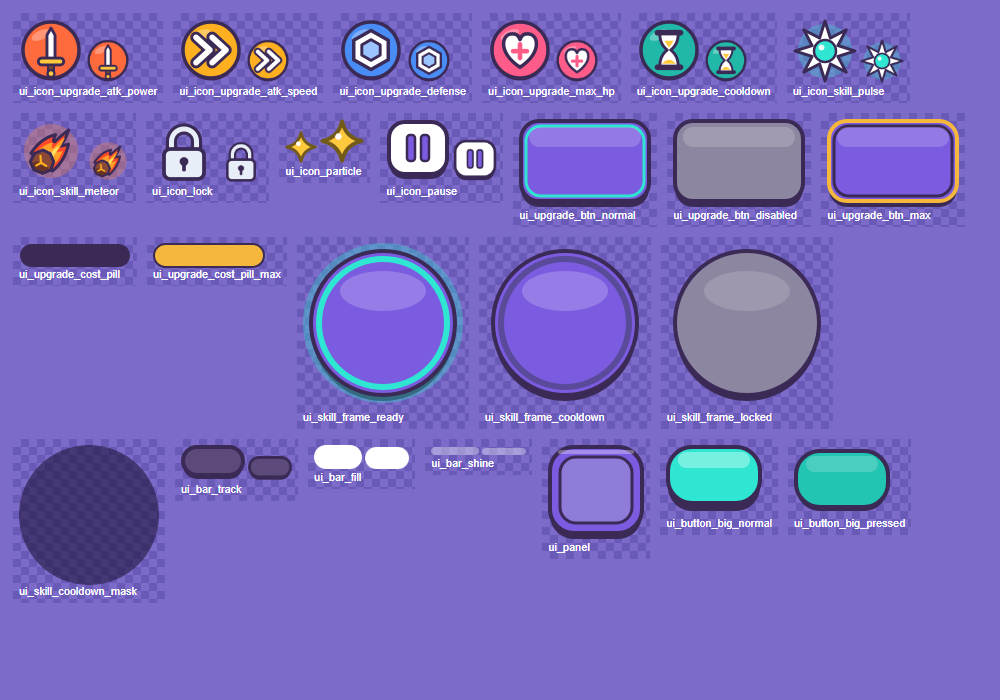
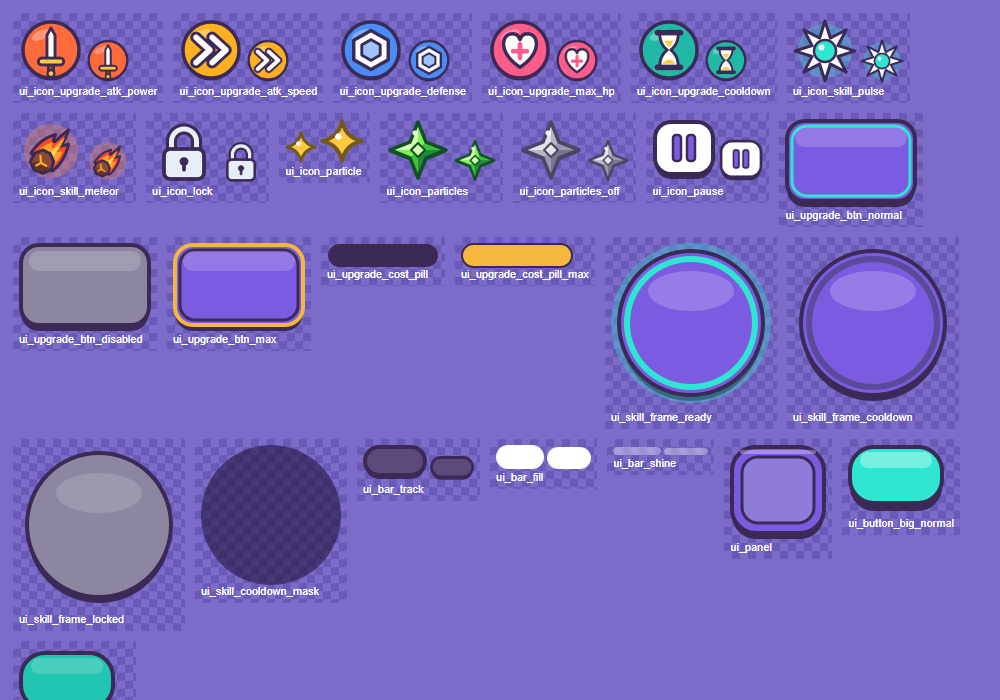
T-155 (voltar ao título), T-160 e T-161 (Partículas verdes na UI e nos efeitos)

Changed region(s): [[0.0, 0.15, 0.961, 0.6], [0.0, 0.63, 0.961, 0.9], [0.0, 0.93, 0.124, 1.0]]

diff --git a/assets/ui/_src/contact_sheet.html b/assets/ui/_src/contact_sheet.html
@@ -1,1 +1,1 @@
-<html><body style="margin:8px;background:#7C6BC9;font:11px sans-serif;color:#fff"><style>.c{display:inline-block;vertical-align:top;margin:5px;padding:6px;background:repeating-conic-gradient(#6a5ab8 0 25%,#7C6BC9 0 50%) 0 0/16px 16px}</style><div class="c"><img src="../ui_icon_upgrade_atk_power.png" style="width:64px"> <img src="../ui_icon_upgrade_atk_power.png" style="width:44px"> <br><span>ui_icon_upgrade_atk_power</span></div><div class="c"><img src="../ui_icon_upgrade_atk_speed.png" style="width:64px"> <img src="../ui_icon_upgrade_atk_speed.png" style="width:44px"> <br><span>ui_icon_upgrade_atk_speed</span></div><div class="c"><img src="../ui_icon_upgrade_defense.png" style="width:64px"> <img src="../ui_icon_upgrade_defense.png" style="width:44px"> <br><span>ui_icon_upgrade_defense</span></div><div class="c"><img src="../ui_icon_upgrade_max_hp.png" style="width:64px"> <img src="../ui_icon_upgrade_max_hp.png" style="width:44px"> <br><span>ui_icon_upgrade_max_hp</span></div><div class="c"><img src="../ui_icon_upgrade_cooldown.png" style="width:64px"> <img src="../ui_icon_upgrade_cooldown.png" style="width:44px"> <br><span>ui_icon_upgrade_cooldown</span></div><div class="c"><img src="../ui_icon_skill_pulse.png" style="width:64px"> <img src="../ui_icon_skill_pulse.png" style="width:44px"> <br><span>ui_icon_skill_pulse</span></div><div class="c"><img src="../ui_icon_skill_meteor.png" style="width:64px"> <img src="../ui_icon_skill_meteor.png" style="width:44px"> <br><span>ui_icon_skill_meteor</span></div><div class="c"><img src="../ui_icon_lock.png" style="width:64px"> <img src="../ui_icon_lock.png" style="width:44px"> <br><span>ui_icon_lock</span></div><div class="c"><img src="../ui_icon_particle.png" style="width:32px"> <img src="../ui_icon_particle.png" style="width:44px"> <br><span>ui_icon_particle</span></div><div class="c"><img src="../ui_icon_pause.png" style="width:64px"> <img src="../ui_icon_pause.png" style="width:44px"> <br><span>ui_icon_pause</span></div><div class="c"><img src="../ui_upgrade_btn_normal.png" style="width:132px"> <br><span>ui_upgrade_btn_normal</span></div><div class="c"><img src="../ui_upgrade_btn_disabled.png" style="width:132px"> <br><span>ui_upgrade_btn_disabled</span></div><div class="c"><img src="../ui_upgrade_btn_max.png" style="width:132px"> <br><span>ui_upgrade_btn_max</span></div><div class="c"><img src="../ui_upgrade_cost_pill.png" style="width:112px"> <br><span>ui_upgrade_cost_pill</span></div><div class="c"><img src="../ui_upgrade_cost_pill_max.png" style="width:112px"> <br><span>ui_upgrade_cost_pill_max</span></div><div class="c"><img src="../ui_skill_frame_ready.png" style="width:160px"> <br><span>ui_skill_frame_ready</span></div><div class="c"><img src="../ui_skill_frame_cooldown.png" style="width:160px"> <br><span>ui_skill_frame_cooldown</span></div><div class="c"><img src="../ui_skill_frame_locked.png" style="width:160px"> <br><span>ui_skill_frame_locked</span></div><div class="c"><img src="../ui_skill_cooldown_mask.png" style="width:140px"> <br><span>ui_skill_cooldown_mask</span></div><div class="c"><img src="../ui_bar_track.png" style="width:64px"> <img src="../ui_bar_track.png" style="width:44px"> <br><span>ui_bar_track</span></div><div class="c"><img src="../ui_bar_fill.png" style="width:48px"> <img src="../ui_bar_fill.png" style="width:44px"> <br><span>ui_bar_fill</span></div><div class="c"><img src="../ui_bar_shine.png" style="width:48px"> <img src="../ui_bar_shine.png" style="width:44px"> <br><span>ui_bar_shine</span></div><div class="c"><img src="../ui_panel.png" style="width:96px"> <br><span>ui_panel</span></div><div class="c"><img src="../ui_button_big_normal.png" style="width:96px"> <br><span>ui_button_big_normal</span></div><div class="c"><img src="../ui_button_big_pressed.png" style="width:96px"> <br><span>ui_button_big_pressed</span></div></body></html>
+<html><body style="margin:8px;background:#7C6BC9;font:11px sans-serif;color:#fff"><style>.c{display:inline-block;vertical-align:top;margin:5px;padding:6px;background:repeating-conic-gradient(#6a5ab8 0 25%,#7C6BC9 0 50%) 0 0/16px 16px}</style><div class="c"><img src="../ui_icon_upgrade_atk_power.png" style="width:64px"> <img src="../ui_icon_upgrade_atk_power.png" style="width:44px"> <br><span>ui_icon_upgrade_atk_power</span></div><div class="c"><img src="../ui_icon_upgrade_atk_speed.png" style="width:64px"> <img src="../ui_icon_upgrade_atk_speed.png" style="width:44px"> <br><span>ui_icon_upgrade_atk_speed</span></div><div class="c"><img src="../ui_icon_upgrade_defense.png" style="width:64px"> <img src="../ui_icon_upgrade_defense.png" style="width:44px"> <br><span>ui_icon_upgrade_defense</span></div><div class="c"><img src="../ui_icon_upgrade_max_hp.png" style="width:64px"> <img src="../ui_icon_upgrade_max_hp.png" style="width:44px"> <br><span>ui_icon_upgrade_max_hp</span></div><div class="c"><img src="../ui_icon_upgrade_cooldown.png" style="width:64px"> <img src="../ui_icon_upgrade_cooldown.png" style="width:44px"> <br><span>ui_icon_upgrade_cooldown</span></div><div class="c"><img src="../ui_icon_skill_pulse.png" style="width:64px"> <img src="../ui_icon_skill_pulse.png" style="width:44px"> <br><span>ui_icon_skill_pulse</span></div><div class="c"><img src="../ui_icon_skill_meteor.png" style="width:64px"> <img src="../ui_icon_skill_meteor.png" style="width:44px"> <br><span>ui_icon_skill_meteor</span></div><div class="c"><img src="../ui_icon_lock.png" style="width:64px"> <img src="../ui_icon_lock.png" style="width:44px"> <br><span>ui_icon_lock</span></div><div class="c"><img src="../ui_icon_particle.png" style="width:32px"> <img src="../ui_icon_particle.png" style="width:44px"> <br><span>ui_icon_particle</span></div><div class="c"><img src="../ui_icon_particles.png" style="width:64px"> <img src="../ui_icon_particles.png" style="width:44px"> <br><span>ui_icon_particles</span></div><div class="c"><img src="../ui_icon_particles_off.png" style="width:64px"> <img src="../ui_icon_particles_off.png" style="width:44px"> <br><span>ui_icon_particles_off</span></div><div class="c"><img src="../ui_icon_pause.png" style="width:64px"> <img src="../ui_icon_pause.png" style="width:44px"> <br><span>ui_icon_pause</span></div><div class="c"><img src="../ui_upgrade_btn_normal.png" style="width:132px"> <br><span>ui_upgrade_btn_normal</span></div><div class="c"><img src="../ui_upgrade_btn_disabled.png" style="width:132px"> <br><span>ui_upgrade_btn_disabled</span></div><div class="c"><img src="../ui_upgrade_btn_max.png" style="width:132px"> <br><span>ui_upgrade_btn_max</span></div><div class="c"><img src="../ui_upgrade_cost_pill.png" style="width:112px"> <br><span>ui_upgrade_cost_pill</span></div><div class="c"><img src="../ui_upgrade_cost_pill_max.png" style="width:112px"> <br><span>ui_upgrade_cost_pill_max</span></div><div class="c"><img src="../ui_skill_frame_ready.png" style="width:160px"> <br><span>ui_skill_frame_ready</span></div><div class="c"><img src="../ui_skill_frame_cooldown.png" style="width:160px"> <br><span>ui_skill_frame_cooldown</span></div><div class="c"><img src="../ui_skill_frame_locked.png" style="width:160px"> <br><span>ui_skill_frame_locked</span></div><div class="c"><img src="../ui_skill_cooldown_mask.png" style="width:140px"> <br><span>ui_skill_cooldown_mask</span></div><div class="c"><img src="../ui_bar_track.png" style="width:64px"> <img src="../ui_bar_track.png" style="width:44px"> <br><span>ui_bar_track</span></div><div class="c"><img src="../ui_bar_fill.png" style="width:48px"> <img src="../ui_bar_fill.png" style="width:44px"> <br><span>ui_bar_fill</span></div><div class="c"><img src="../ui_bar_shine.png" style="width:48px"> <img src="../ui_bar_shine.png" style="width:44px"> <br><span>ui_bar_shine</span></div><div class="c"><img src="../ui_panel.png" style="width:96px"> <br><span>ui_panel</span></div><div class="c"><img src="../ui_button_big_normal.png" style="width:96px"> <br><span>ui_button_big_normal</span></div><div class="c"><img src="../ui_button_big_pressed.png" style="width:96px"> <br><span>ui_button_big_pressed</span></div></body></html>

diff --git a/assets/ui/_src/gen_ui.py b/assets/ui/_src/gen_ui.py
@@ -72,6 +72,24 @@ G_LOCK = ('<path d="M-10 -2 v-8 a10 10 0 0 1 20 0 v8" fill="none" stroke="#3A2A5
 G_PARTICLE = ('<path d="M0 -11 Q2 -2 11 0 Q2 2 0 11 Q-2 2 -11 0 Q-2 -2 0 -11 Z" fill="#FFC93D" stroke="#725A1B" stroke-width="2.2" stroke-linejoin="round"/>'
               '<circle cx="-2" cy="-2.5" r="1.8" fill="#FFF"/>')
 
+# Partículas = estrela verde "chip" (decisão 40, BRF-061). G_PARTICLE (dourada) fica obsoleta: reservada à Moeda do M2.
+P_GREEN = {"light": "#D2FFB0", "mid": "#7CF05A", "deep": "#3CC23A", "dark": "#1F8A3B", "out": "#124F24"}
+P_OFF = {"light": "#E4E2EA", "mid": "#B8B4C6", "deep": "#9C97AE", "dark": "#7A7490", "out": "#4A4560"}
+
+
+def g_particles(p):
+    tri = lambda a, b, c: f'M{a} L{b} L{c} Z'
+    faces = [(p["light"], ["0,-28", "-8,-8", "0,0"]), (p["mid"], ["0,-28", "8,-8", "0,0"]),
+             (p["light"], ["-28,0", "-8,-8", "0,0"]), (p["mid"], ["-28,0", "-8,8", "0,0"]),
+             (p["deep"], ["28,0", "8,-8", "0,0"]), (p["dark"], ["28,0", "8,8", "0,0"]),
+             (p["deep"], ["0,28", "-8,8", "0,0"]), (p["dark"], ["0,28", "8,8", "0,0"])]
+    star = "M0 -28 L8 -8 L28 0 L8 8 L0 28 L-8 8 L-28 0 L-8 -8 Z"
+    return (f'<path d="{star}" fill="{p["out"]}" transform="translate(0 2.5)"/>'
+            + "".join(f'<path d="{tri(*v)}" fill="{c}"/>' for c, v in faces)
+            + f'<path d="{star}" fill="none" stroke="{p["out"]}" stroke-width="3.5" stroke-linejoin="round"/>'
+            + f'<path d="M0 -7 L7 0 L0 7 L-7 0 Z" fill="{p["light"]}" stroke="{p["out"]}" stroke-width="2" stroke-linejoin="round"/>'
+            + '<circle cx="-3" cy="-17" r="2.6" fill="#FFFFFF" opacity="0.9"/>')
+
 
 def at(x, y, s, inner):
     return f'<g transform="translate({x} {y}) scale({s})">{inner}</g>'
@@ -150,7 +168,9 @@ ASSETS.update({
     "ui_icon_skill_pulse": (64, 64, at(32, 32, 1.0, G_SKILL_PULSE)),
     "ui_icon_skill_meteor": (64, 64, at(32, 32, 1.0, G_SKILL_METEOR)),
     "ui_icon_lock": (64, 64, at(32, 35, 1.25, G_LOCK)),
-    "ui_icon_particle": (32, 32, at(16, 16, 1.3, G_PARTICLE)),
+    "ui_icon_particle": (32, 32, at(16, 16, 1.3, G_PARTICLE)),  # obsoleto (dourado = Moeda do M2)
+    "ui_icon_particles": (64, 64, at(32, 31, 1.0, g_particles(P_GREEN))),
+    "ui_icon_particles_off": (64, 64, at(32, 31, 1.0, g_particles(P_OFF))),
     "ui_icon_pause": (64, 64, PAUSE),
     "ui_upgrade_btn_normal": (132, 90, upgrade_btn(PURPLE, INK, CYAN)),
     "ui_upgrade_btn_disabled": (132, 90, upgrade_btn(GRAY, INK, None)),

diff --git a/docs/backlog.md b/docs/backlog.md
@@ -67,13 +67,13 @@
 | T-152 | Barra de vida grande e vermelha "Boss" no topo do HUD | M1 | AG02 | feita |
 | T-153 | Arte das pílulas do topo (ONDA e Partículas) e do botão secundário | M1 | AG08 | pronta p/ briefing |
 | T-154 | Texto "MAX" na pílula de custo dos upgrades (hoje desenhado por código) | M1 | AG08 + AG02 | pronta p/ briefing |
-| T-155 | "Voltar ao título" a partir da tela de Resultado | M1 | AG02 + AG07 | pronta p/ briefing (aprovada pelo dono) |
+| T-155 | "Voltar ao título" a partir da tela de Resultado | M1 | AG02 + AG07 | feita |
 | T-156 | Chão: quebrar a repetição das pedrinhas do tile | M1 | AG08 + AG01 | depende do teste no iPhone |
 | T-157 | Ajustar o escurecimento do topo (degradê do chão + do HUD) | M1 | AG02 + AG01 | depende do teste no iPhone |
 | T-158 | Teste no iPhone: splash, título, partida e chefe (ajustes saem daqui) | M1 | usuário + AG00 | a fazer (o dono fará o teste) |
 | T-159 | Remover o ícone provisório do `skill_pulse` e deixar o do meteoro como padrão | M1 | AG02 | pronta p/ briefing |
-| T-160 | Arte do ícone de Partículas: estrela verde, estilo "chip" (e nova cor dos efeitos de coleta) | M1 | AG08 | pronta p/ briefing |
-| T-161 | Aplicar o ícone verde de Partículas no HUD, Resultado, botões de upgrade e efeitos (hoje dourado) | M1 | AG02 + AG09 | pronta p/ briefing |
+| T-160 | Arte do ícone de Partículas: estrela verde, estilo "chip" (e nova cor dos efeitos de coleta) | M1 | AG08 | feita |
+| T-161 | Aplicar o ícone verde de Partículas no HUD, Resultado, botões de upgrade e efeitos (hoje dourado) | M1 | AG02 + AG09 | feita |
 | T-162 | Arte do ícone de Moeda (moeda dourada) e do glossário na UI (para o M2) | M2 | AG08 | a fazer |
 | T-163 | Textos do jogo e docs com os nomes oficiais (Módulo, Fragmento, Núcleo, Moeda); decidir a colisão de "Núcleo" | M2 | AG00 + AG04 + AG02 | a fazer |
 | T-164 | Rótulo da vida do Anima: "NÚCLEO" vira "ENERGIA" no HUD, Resultado e docs de UI | M1 | AG02 | feita |
@@ -401,7 +401,7 @@
 - **Pronto quando:** o README e o PNG de `ui_upgrade_cost_pill_max` ficam de acordo (ou a pílula sem texto, ou com "MAX"); a UI não desenha o texto duas vezes.
 
 ### T-155 — Voltar ao título a partir do Resultado
-- **Marco:** M1 · **Dono:** AG02 + AG07 · **Status:** pronta p/ briefing (aprovada pelo dono)
+- **Marco:** M1 · **Dono:** AG02 + AG07 · **Status:** feita
 - **Depende de:** — (o Resultado hoje só tem "Jogar de novo") · **Desbloqueia:** —
 - **Arquivos:** `src/ui/screens/` (AG02), `src/core/scene_flow.gd` (AG07)
 - **Pronto quando:** o Resultado oferece também "Voltar ao título" (botão secundário), o fluxo muda para a cena de título sem reiniciar o jogo e sem vazar a partida; testes de fluxo.
@@ -430,13 +430,13 @@
 - **Pronto quando:** o ícone do meteoro vem de uma fonte única (hoje por caminho no HUD, ver `Hud.slot_icon_paths`); o `ui_icon_skill_pulse.png` e o `skill_pulse` provisório deixam de aparecer no jogo e nas demos; o número de recarga continua legível sobre o ícone (que ocupa pouco do quadro de 88 px).
 
 ### T-160 — Ícone de Partículas verde
-- **Marco:** M1 · **Dono:** AG08 · **Status:** pronta p/ briefing
+- **Marco:** M1 · **Dono:** AG08 · **Status:** feita
 - **Depende de:** decisão 40 · **Desbloqueia:** T-161
 - **Arquivos:** `assets/ui/`, `assets/LICENSES.md`
 - **Pronto quando:** estrela de 4 pontas **verde** em estilo "chipzinho" (contorno escuro, brilho), legível a 24–32 px, **diferente do verde da barra de vida dos inimigos** e sem ciano; paleta de coleta definida para o AG09.
 
 ### T-161 — Partículas em verde na UI e nos efeitos
-- **Marco:** M1 · **Dono:** AG02 + AG09 · **Status:** pronta p/ briefing
+- **Marco:** M1 · **Dono:** AG02 + AG09 · **Status:** feita
 - **Depende de:** T-160 · **Desbloqueia:** —
 - **Arquivos:** `src/ui/` (AG02), `src/fx/` (AG09)
 - **Pronto quando:** o HUD, o Resultado, o custo dos botões de upgrade e o efeito de coleta usam a estrela verde (`UiTokens.PARTICLES` deixa de ser dourado); nenhuma Partícula cai no mapa.

diff --git a/docs/vfx.md b/docs/vfx.md
@@ -5,7 +5,7 @@
 
 ## 1. Pool de efeitos (`src/fx/`)
 
-- `FxEffect` (`fx_effect.gd`): efeito desenhado por código (`_draw`), sem arquivo de textura, sem alocar por quadro. Gotas e anéis são retângulos de um **atlas branco único** gerado uma vez (`FxEffect.prepare_textures()`, chamado pelo `FxPool.register`) e tingidos pela cor: assim caem no mesmo lote (`draw_circle`/`draw_arc` custavam 1 draw call cada no Compatibility). Estilos: `BURST` (flash + anel + gotas, acima da âncora), `GROUND_RING` (decalque elíptico 0,75 no chão, `z_index = -1`; com `fill` = telegraph), `SPARKLE` (gotas subindo), `STREAK` (traço curto em `direction`: rastro do disparo).
+- `FxEffect` (`fx_effect.gd`): efeito desenhado por código (`_draw`), sem arquivo de textura, sem alocar por quadro. Gotas e anéis são retângulos de um **atlas branco único** gerado uma vez (`FxEffect.prepare_textures()`, chamado pelo `FxPool.register`) e tingidos pela cor: assim caem no mesmo lote (`draw_circle`/`draw_arc` custavam 1 draw call cada no Compatibility). Exports de cor: `default_color`, `outline_color` (fixo da paleta quando usada a cor padrão; alfa 0 = cor −55%) e `highlight_color` (faísca do `SPARKLE`). Estilos: `BURST` (flash + anel + gotas, acima da âncora), `GROUND_RING` (decalque elíptico 0,75 no chão, `z_index = -1`; com `fill` = telegraph), `SPARKLE` (gotas subindo), `STREAK` (traço curto em `direction`: rastro do disparo).
 - Cenas `fx_*.tscn` = `FxEffect` com os parâmetros do tipo (duração, raio, gotas, altura, cor padrão).
 - `FxPool` (`fx_pool.gd`): `setup_default()` ou `register(tipo, cena, n)` **pré-criam** as instâncias (fora da partida). `play(tipo, âncora, cor = padrão, tamanho = 1.0) -> FxEffect` religa uma livre; cheio, **recicla a mais antiga** (limite nunca passa). `reduced_effects`, `capacity()`, `active_count()`, `stop_all()`.
 - **Âncora** = ponto de contato com o chão, em coordenadas de tela (mesma regra de `GroundPlane`). O pool tem `y_sort_enabled`: como filho da `Arena` (Y-sort), os efeitos se ordenam com as entidades; decalques ficam abaixo dos corpos (z −1) e acima do piso (z −10).
@@ -31,7 +31,7 @@ Custo = gotas desenhadas no pico (cada gota = 2 círculos) + arcos. "Sinal exist
 | `fx_trail` | rastro curto do disparo (traço ao longo de `dir`; cortado no modo reduzido) | `projectile_fired(from, dir)` | T-148 | 0,16 s | `accent` + núcleo `soul` | 70 px, 44 px acima | 8 | 3 linhas + 1 gota |
 | `fx_hit` | impacto do tiro | `projectile_hit(at, target_kind)` | T-148 | 0,22 s | `accent` + flash branco; chefe `boss` ×1,3; núcleo `#E8344E` | r 24 | 24 | 4 gotas + flash + 2 arcos |
 | `fx_death` | morte por arquétipo (cor do arquétipo) | `enemy_died(at, archetype_id, cause)` na Arena | T-148 | 0,4 s | runner `#FF8A3D`, tank `#E8344E`, shooter `#FF3DB4`, swarm `#9B5CFF` (tank `size` 1,4; swarm 0,7; contato ×0,8; `boss_*` `size` 3) | r 42 | 16 | 6 gotas + flash + 2 arcos |
-| `fx_pickup` | coleta de Partícula | `particles_gained(at, amount)` (brilho no chão; o voo ao HUD é do AG02) | T-148 | 0,5 s | `gold` | r 18, sobe 48 px | 12 | 4 gotas (3 círculos) |
+| `fx_pickup` | coleta de Partícula: só brilho no ponto da morte, **não há item no chão** (contador do HUD é do AG02) | `particles_gained(at, amount)` | T-148 | 0,5 s | verde de Partículas (T-161, `assets/ui/README.md`): corpo `#7CF05A`, contorno `#124F24`, faísca `#D2FFB0`; dourado fica para a Moeda | r 18, sobe 48 px | 12 | 4 gotas (3 círculos) |
 | `fx_upgrade` | compra de upgrade (no Anima) | `upgrade_changed` com nível maior | existe | 0,6 s | `accent` | r 56, sobe 90 px | 2 | 8 gotas |
 | (UI) | skill pronta | `skill_ready(slot)` | existe | 0,3 s | `accent` | no botão (AG02/`ui.md`) | — | tween no botão |
 | `fx_skill_cast` | skill usada (onda no chão) | `skill_cast(slot, at, radius)` | T-148 | 0,45 s | `accent` | r = raio da skill | 2 | 2 arcos |

diff --git a/assets/LICENSES.md b/assets/LICENSES.md
@@ -9,7 +9,7 @@
 | `assets/backgrounds/mockup_cartoon_a_upgrades.svg` / `.png` | Original, derivado do mockup A por script (arena a 87% + fileira de upgrades; bandeja de 3 slots no BRF-025), renderizado no Chrome headless (BRF-024/025) | AG08 (Project: Anima) | Próprio do projeto |
 | `assets/sprites/*.png` (Anima, inimigos, chefes warden e ogro, projéteis, partícula, sombra, meteoro e cratera) | Original, SVG gerado por script (`assets/sprites/_src/gen_sprites.py`) a partir dos mockups A/B e renderizado no Chrome headless (BRF-031; meteoro no BRF-047; ogro no BRF-057) | AG08 (Project: Anima) | Próprio do projeto |
 | `assets/backgrounds/floor_*.png` (chão, selo, pilar, sombra do topo) e `assets/backgrounds/_preview/*` | Original, SVG gerado por script (`assets/sprites/_src/gen_sprites.py`) a partir do mockup A e renderizado no Chrome headless (BRF-040) | AG08 (Project: Anima) | Próprio do projeto |
-| `assets/ui/*.png` (ícones de upgrade e de skill, incl. meteoro, cadeado, Partículas, pausa, botões, molduras de skill, barra, painel) | Original, SVG gerado por script (`assets/ui/_src/gen_ui.py`) a partir do mockup A com upgrades e renderizado no Chrome headless (BRF-037; meteoro no BRF-047) | AG08 (Project: Anima) | Próprio do projeto |
+| `assets/ui/*.png` (ícones de upgrade e de skill, incl. meteoro, Partículas verdes, cadeado, Partículas, pausa, botões, molduras de skill, barra, painel) | Original, SVG gerado por script (`assets/ui/_src/gen_ui.py`) a partir do mockup A com upgrades e renderizado no Chrome headless (BRF-037; meteoro no BRF-047; Partículas no BRF-061) | AG08 (Project: Anima) | Próprio do projeto |
 | `assets/splash/*` (propostas A/B da splash, logotipo+núcleo PNG/WebP, fundos SVG) | Original, SVG gerado por script (`assets/splash/_src/gen_splash.py`) a partir do mockup A e renderizado no Chrome headless; WebP via ffmpeg (BRF-052) | AG08 (Project: Anima) | Próprio do projeto |
 | `assets/ui/ui_title_logo_core.png` | Cópia de `assets/splash/splash_logo_core.png` para a tela "Toque para começar" (BRF-054) | AG08 (Project: Anima) | Próprio do projeto |
 | `assets/fonts/Outfit-Variable.ttf` | Google Fonts (*Outfit*) | The Outfit Project Authors | SIL OFL 1.1 (`assets/fonts/OFL.txt`) |

diff --git a/assets/ui/README.md b/assets/ui/README.md
@@ -16,7 +16,9 @@ Fonte: `_src/gen_ui.py` (SVG por código → Chrome headless). Para regenerar, r
 | `ui_icon_skill_pulse.png` | 128×128 | 64×64 (~88 na moldura) | Skill de área atual (pulso). **Provisório até a T-125**: para trocar, edite só `G_SKILL_PULSE` no script |
 | `ui_icon_skill_meteor.png` | 128×128 | 64×64 (~88 na moldura) | Skill do slot 1: meteoro de fogo (BRF-047). Substitui o `ui_icon_skill_pulse.png`, mantido até o AG02 trocar o uso. Fonte: `G_SKILL_METEOR` |
 | `ui_icon_lock.png` | 128×128 | 64×64 | Cadeado dos slots bloqueados (acima do texto "NV 7"/"NV 12") |
-| `ui_icon_particle.png` | 64×64 | 32×32 (18–24 na pílula) | Estrela de Partículas (custo, contador) |
+| `ui_icon_particles.png` | 128×128 | 64×64 (24–32 no HUD/pílula) | **Partículas** (decisão 40, BRF-061): estrela verde de 4 pontas com facetas tipo "chip", núcleo claro e brilho. Fonte: `g_particles(P_GREEN)` |
+| `ui_icon_particles_off.png` | 128×128 | 64×64 | Variante apagada (cinza-lilás) para custo sem Partículas (alternativa ao `modulate.a`) |
+| `ui_icon_particle.png` | 64×64 | 32×32 | **Obsoleto**: estrela dourada, reservada para a Moeda do M2. Não usar para Partículas |
 | `ui_icon_pause.png` | 128×128 | 64×64 | Botão de pausa completo (quadrado branco + barras), canto superior esquerdo |
 
 Ícone sem Partículas: `modulate.a = 0.55` (o círculo fica colorido; o mockup usa cinza, aceitável a 55%).
@@ -58,3 +60,15 @@ Margens em **px do PNG (2x)**; em 1x, metade.
 | `ui_button_big_pressed.png` | 192×144 | 52 / 52 / 52 / 68 | Pressionado: corpo desce 4 px (1x) e escurece; mesmo canvas, troca direta |
 
 Barra: use `TextureProgressBar` com `nine_patch_stretch = true` e as mesmas margens, ou `NinePatchRect` + recorte.
+
+## Paleta de Partículas (coleta, para o AG09)
+
+Verde-limão/esmeralda, sem ciano e distinto do verde das barras de vida (`#3FD27F`). Mesmos tokens de `P_GREEN` no `gen_ui.py`.
+
+| Tom | Hex | Uso sugerido |
+|---|---|---|
+| Claro | `#D2FFB0` | núcleo, brilho, faísca |
+| Médio | `#7CF05A` | corpo da partícula |
+| Médio-escuro | `#3CC23A` | faceta sombreada, rastro |
+| Escuro | `#1F8A3B` | borda, fim do rastro |
+| Contorno | `#124F24` | contorno do ícone |

diff --git a/docs/arte.md b/docs/arte.md
@@ -36,7 +36,7 @@
 | `enemy_swarm` | `#9B5CFF` | `#B07CFF` | enxame (violeta) |
 | `boss` | `#C040F5` | `#C040F5` | chefe (igual a `boss_hp`) |
 | `projectile_enemy` | `#FF2DAA` + núcleo `#FFD6F0` | igual | projéteis inimigos |
-| `gold` | `#FFC93D` | `#FFD23D` | Partículas, coroa do chefe, runas (B) |
+| `gold` | `#FFC93D` | `#FFD23D` | Moeda do M2 (antes Partículas; decisão 40), coroa do chefe, runas (B) |
 | `floor` / `floor_alt` | `#F6E9CF` / `#EEDDBD` | `#3A3178` / `#433A86` | piso em xadrez (A) ou lajotas (B) |
 | `rune` | `#B9A5E8` | `#8A6CFF` | círculo rúnico do chão |
 | `wall` | `#9C8BE0` / `#6E5CC0` | `#5B4EB0` / `#221C4A` | borda da arena (topo / face frontal) |
@@ -73,7 +73,7 @@ Pedestal cilíndrico neutro (`vessel`) com aro ciano + **cristal losango ciano f
 | **Chefe** | **ogro** barrigudo, pele oliva quente, cabeça pequena, presas, colete e clava curta (decisão 39, BRF-057: `boss_ogre*`, poses parado/wind-up/atordoado; substitui a massa violeta com anel) | domina a tela; só corpo a corpo, sem anel | [A definir] | ~145 | ~200 | 256×256 |
 | Projétil do jogador | cápsula ciano com núcleo branco e rastro | lado "amigo" | 6 | — | 26×14 | 32×16 |
 | Projétil inimigo | losango magenta com núcleo rosado e halo | lê como ameaça | [AG01] | — | 26×18 | 32×32 |
-| Partícula (moeda) | estrela de 4 pontas dourada com brilho | não confundir com projétil | — | ~16 | 22 | 32×32 |
+| Partícula (moeda) | estrela de 4 pontas **verde "chip"** (decisão 40, BRF-061: `ui_icon_particles.png`, paleta no `assets/ui/README.md`); o `pickup_particle` dourado ainda não foi trocado | não confundir com projétil | — | ~16 | 22 | 32×32 |
 
 - **Arquivos finais (T-127):** tamanhos, âncoras e offsets de cada sprite em [`assets/sprites/README.md`](../assets/sprites/README.md). O atirador e o enxame ganharam canvas maior (garras e asas); o anel do chefe e os nós do Anima são sprites separados.
 - **Proporções:** inimigos têm cabeça = corpo (1 "cabeça" de altura), olhos ocupando ~30% da largura. Quanto mais perigoso, **maior e mais saturado**, nunca mais escuro.
